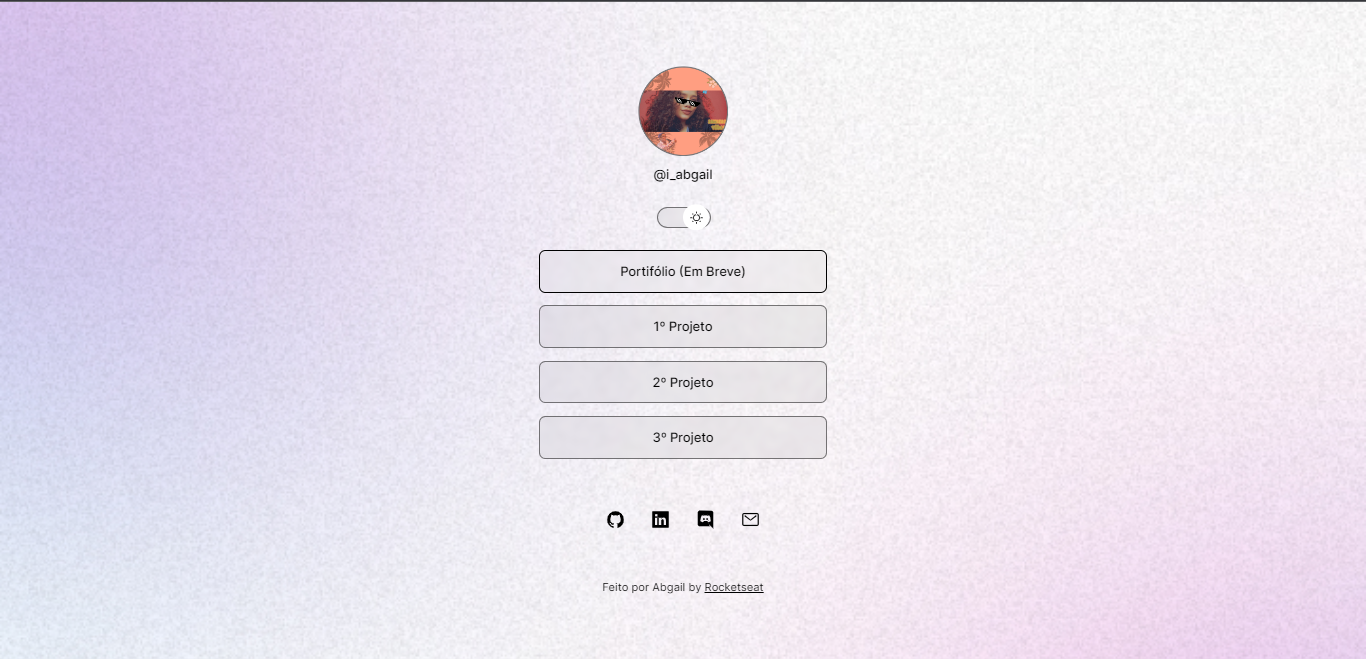
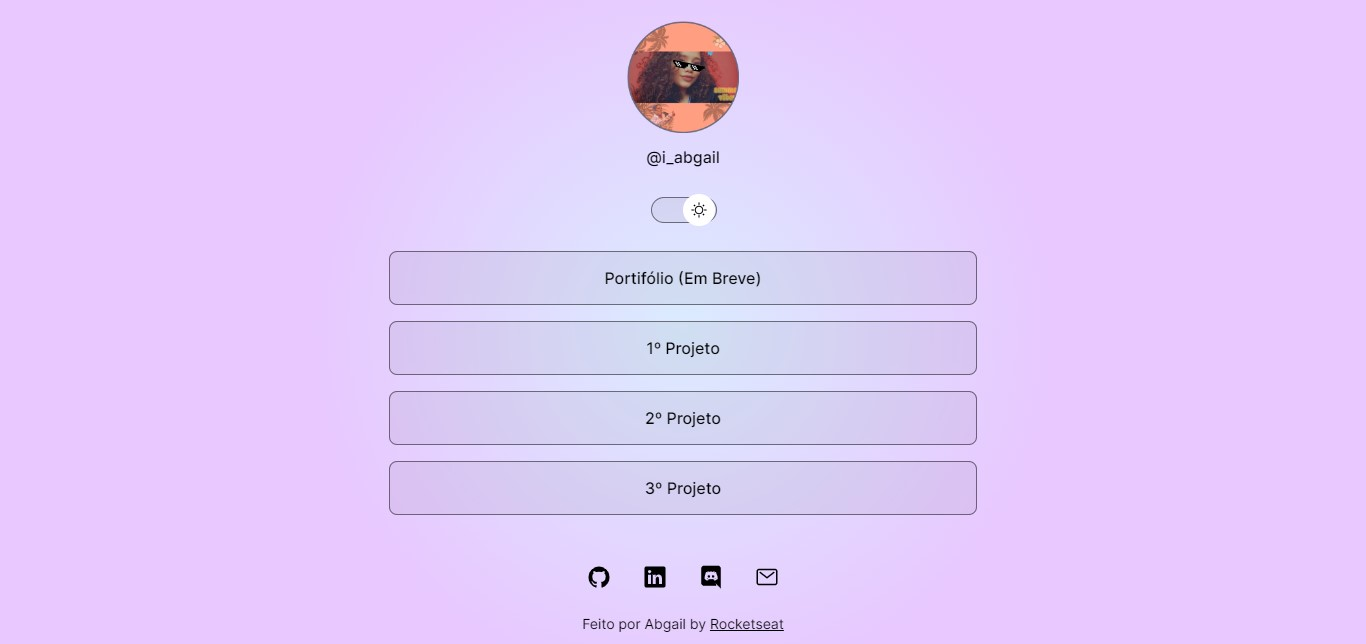
change background by javascript

diff --git a/style.css b/style.css
@@ -3,6 +3,24 @@
     padding: 0;
     box-sizing: 0;
 }
+
+:root{
+    --text-color: white;
+    --stroke-color: rgba(255, 255, 255, 0.5);
+    --surface-color: rgba(255, 255, 255, 0.5);
+    --surface-color-hover: rgba(255, 255, 255, 0.02);
+    --highlight-color: rgba(255, 255, 255, 0.2);
+    --switch-bq-url: url(./assents/moon-stars.svg);
+}
+
+.light{
+    --text-color: black;
+    --stroke-color: rgba(0, 0, 0, 0.5);
+    --surface-color: rgba(0, 0, 0, 0.05);
+    --surface-color-hover: rgba(0, 0, 0, 0.02);
+    --highlight-color: rgba(0, 0, 0, 0.1);
+    --switch-bq-url: url(./assents/sun.svg);
+}
 /* Forma de colocar cada propriedade e o valor
 body{
     background-image: url(./assents/bg-mobile.jpg);
@@ -10,30 +28,12 @@ body{
     background-position: top center;
     background-size: cover;
 }
-*/
-:root{
-    --text-color: white;
-    --bg-url: url(./assents/bg-mobile.jpg);
-    --stroke-color: rgba(255, 255, 255, 0.5);
-    --surface-color: rgba(255, 255, 255, 0.1);
-    --surface-color-hover: rgba(255, 255, 255, 0.05);
-    --highlight-color: rgba(255, 255, 255, 0.2);
-    --switch-bq-url: url(./assents/moon-stars.svg);
-}
-
-.light{
-    --text-color: black;
-    --bg-url: url(./assents/bg-mobile-light.jpg);
-    --stroke-color: rgba(0, 0, 0, 0.5);
-    --surface-color: rgba(0, 0, 0, 0.05);
-    --surface-color-hover: rgba(0, 0, 0, 0.02);
-    --highlight-color: rgba(0, 0, 0, 0.1);
-    --switch-bq-url: url(./assents/sun.svg);
-}
+*/ 
 /* Forma de atalho*/
 body{
-    background: var(--bg-url) no-repeat top center/cover;
+    background-image: radial-gradient(circle, rgba(63,94,251,1) 0%, rgba(115,0,121,1) 49%, rgba(46,0,84,1) 100%);
     height: 100vh;
+
 }
 body *{
     font-family: 'Inter', sans-serif;
@@ -66,6 +66,7 @@ body *{
 #switch{
     position: relative;
     width: 64px;
+
     margin: 4px auto;
 }
 
@@ -83,7 +84,7 @@ body *{
     z-index: 1;
     transform: translateY(-50%);
 
-    animation: slide-to-back 0.3s;
+    animation: slide-to-back 0.2s;
 }
 
 #switch button:hover{
@@ -91,7 +92,7 @@ body *{
 }
 
 .light #switch button{
-    animation: slide-in 0.3s forwards;
+    animation: slide-in 0.2s forwards;
 }
 
 #switch span{
@@ -135,16 +136,15 @@ ul li a{
     text-decoration: none;
     font-weight: 500;
 
-    transition: background 0.3s;
+    transition: background 0.2s;
 }
 
 ul li a:hover{
-    background-color: var(--surface-color-hover);
+    background: var(--surface-color-hover);
     border: 2px solid var(--text-color);
 }
 
 /* Social Media Links*/
-
 #social-links{
     display: flex;
     justify-content: center;
@@ -175,14 +175,13 @@ footer{
 }
 
 /* Media Queries*/
-@media(min-width: 700px){
-    :root{
-        --bg-url: url(./assents/bg-desktop-dark.jpg);
+@media (max-width: 600px){
+    #container{
+        max-width: 400px;
     }
-    .light{
-        --bg-url: url(./assents/bg-desktop-light.jpg);
-    }
+
 }
+
 
 /*Animation*/
 @keyframes slide-in{

diff --git a/script.js b/script.js
@@ -1,18 +1,25 @@
 function toggleMode(){
     const html = document.documentElement
-
+    // Colocando a classe light
     //if(html.classList.contains('light')){
     //    html.classList.remove('light')
     //} else{
     //    html.classList.add('light')
     //}
+    //Usando a função Toggle pra alterar 
     html.classList.toggle('light')
 
-    // Substituindo a imagem de acordo com o tema
+    // Substituindo a imagem de acordo com o tema e o fundo
     const imagem = document.querySelector('#profile img')
+    const fundo = document.querySelector('body')
+
     if(html.classList.contains('light')){
         imagem.setAttribute('src', './assents/avatar-light.png')
+        
+        fundo.style.backgroundImage ="radial-gradient(circle, rgba(0,11,138,1) 0%, rgba(211,231,255,0.8225665266106442) 0%, rgba(232,200,255,1) 49%)";
+
     }else{
         imagem.setAttribute('src', './assents/avatar.png')
+        fundo.style.backgroundImage =" radial-gradient(circle, rgba(63,94,251,1) 0%, rgba(115,0,121,1) 49%, rgba(46,0,84,1) 100%)";
     }
 }

diff --git a/README.md b/README.md
@@ -7,11 +7,12 @@
 - [Visite o projeto online](https://abgail-diniz.github.io/my.links/)
 
 <br>
-<h3>Imagem do site no tema Noite 🌚</h3>
-<img alt="Projeto Agregador de links" src=".github/preview-dark.jpg"  >
+<h3>Tema Dark 🌚</h3>
+<img alt="Imagem do site no tema Dark" src=".github/preview-dark.jpg"  >
 
-<h3>Imagem do site no tema Dia 🌞</h3>
-<img alt="Projeto Agregador de links" src=".github/preview-light.jpg"  >
+<h3>Tema Light 🌞</h3>
+<img alt="Imagem do site no tema Light " src=".github/preview-light.jpg"  >
+
 <br>
 
 ## 🚀 Tecnologias
